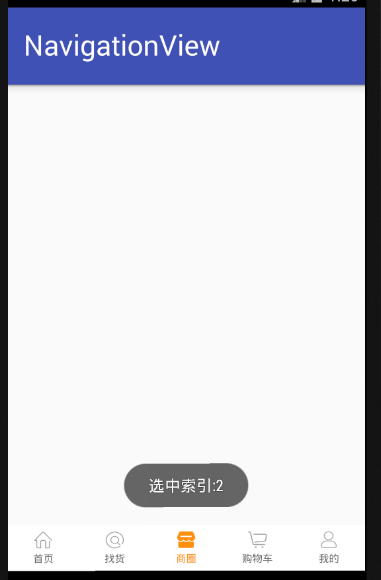
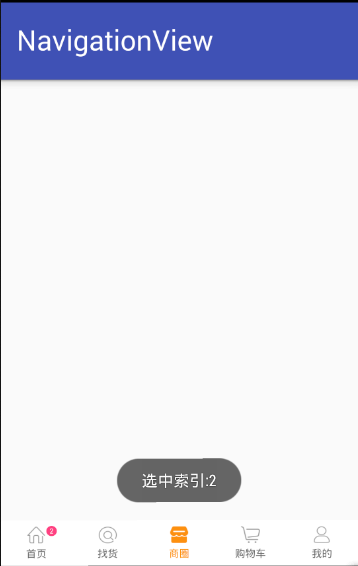
添加未读数

Changed region(s): [[0.0, 0.0, 1.0, 1.0]]

diff --git a/app/src/main/java/com/rongke/mifan/navigationview/NavigationView.java b/app/src/main/java/com/rongke/mifan/navigationview/NavigationView.java
@@ -82,6 +82,17 @@ public class NavigationView extends LinearLayout {
         invalidate();
     }
 
+    /**
+     * 设置未读数
+     */
+    public void setUnRead(int position ,int num){
+        if(position>ll_root.getChildCount()-1){
+            return;
+        }
+        NavigationItemView navigationItemView= (NavigationItemView) ll_root.getChildAt(position);
+        navigationItemView.setUnReadNum(num);
+    }
+
     public interface NavigaClick {
         void onClick(int position);
     }

diff --git a/app/src/main/java/com/rongke/mifan/navigationview/MainActivity.java b/app/src/main/java/com/rongke/mifan/navigationview/MainActivity.java
@@ -35,5 +35,8 @@ public class MainActivity extends AppCompatActivity {
         });
         AutoUtils.auto(this);
 
+
+        //未读数显示
+        nv_tab.setUnRead(0,2);
     }
 }
